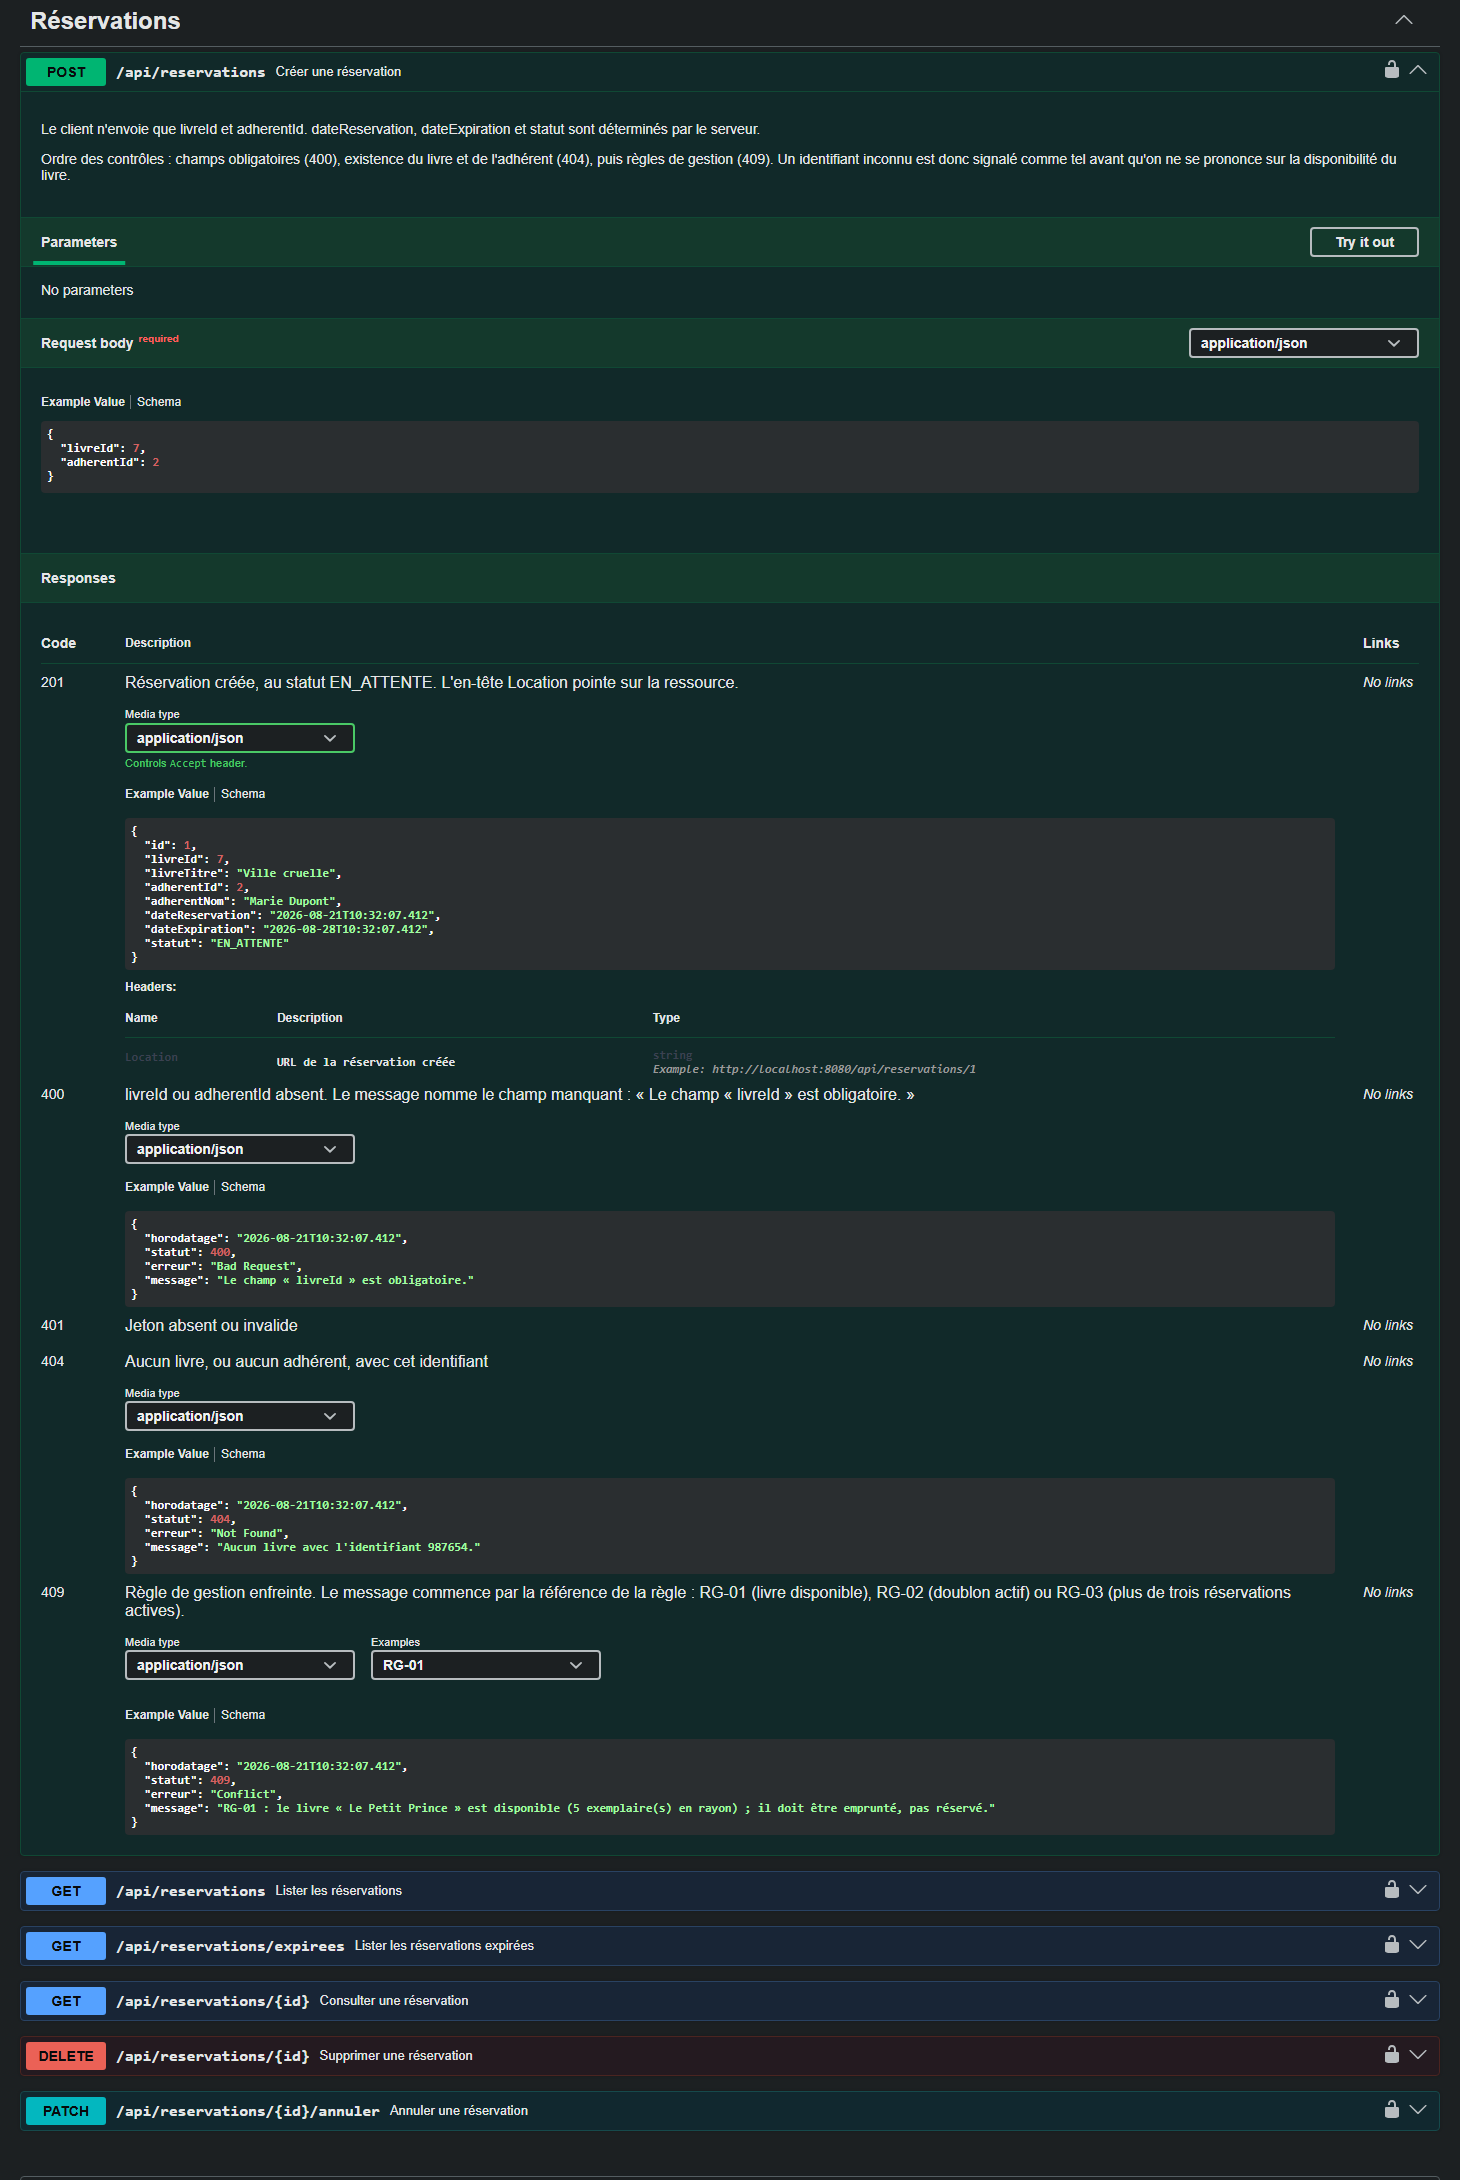
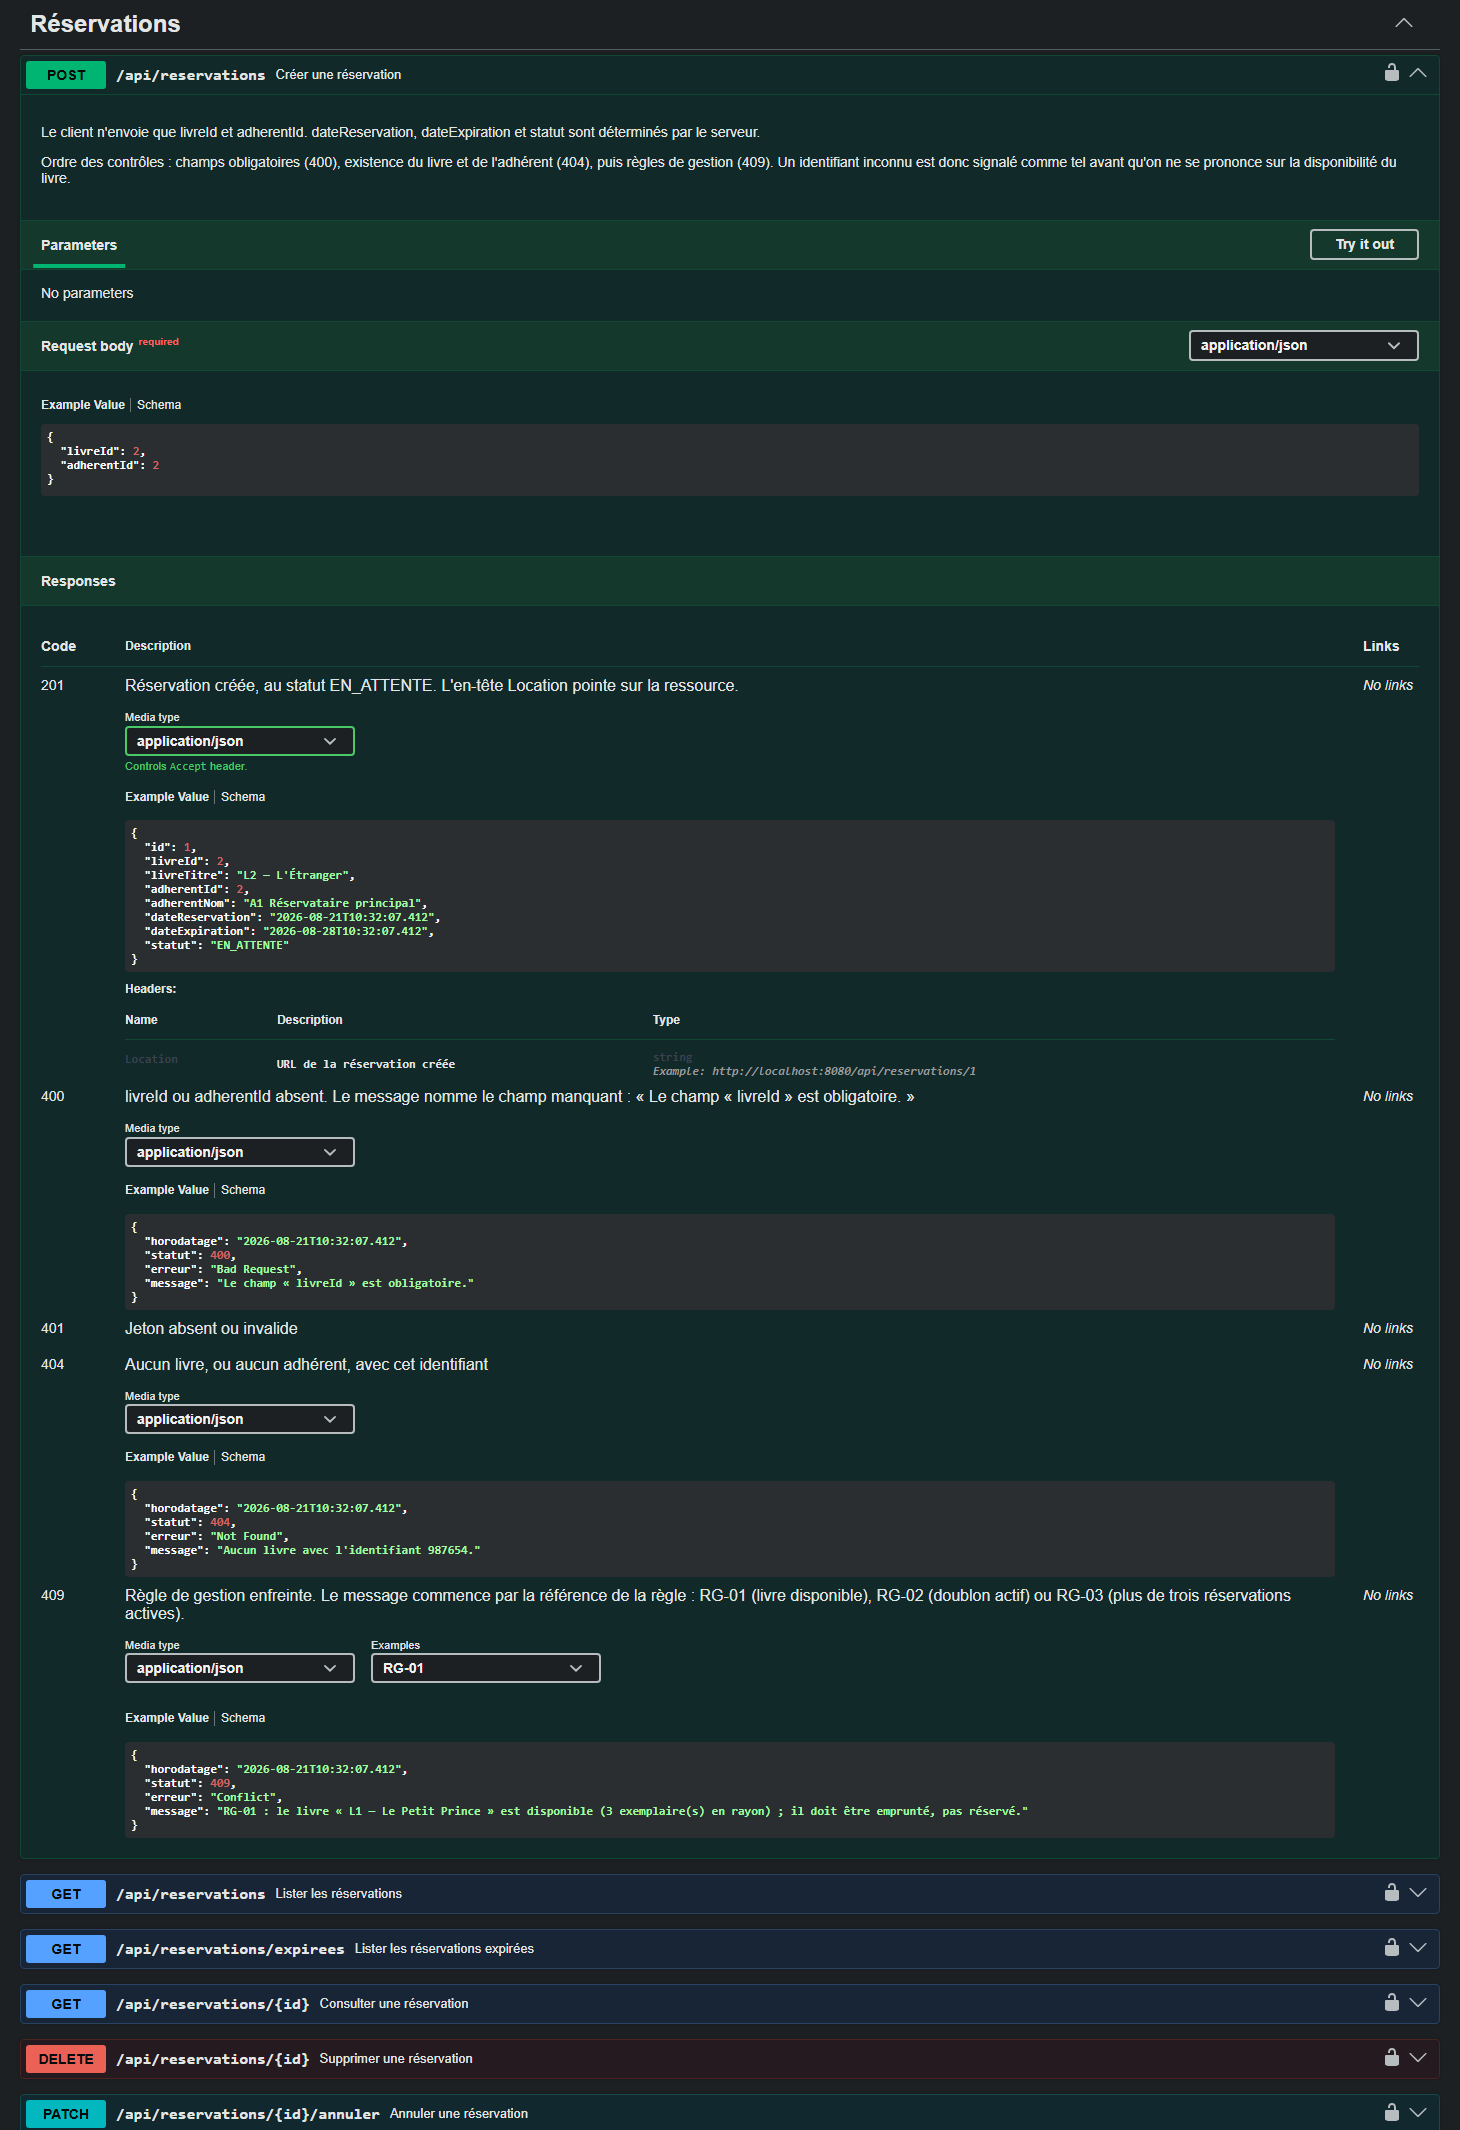
docs: retire les mentions bonus et aligne la doc sur le jeu de test
Description de la PR et SEANCE-2-RESERVATION.md : la section Bonus et
les lignes correspondantes des tableaux sont retirees. Le code garde
l'endpoint /expirees, le planificateur d'expiration et les tests
unitaires ; seule la mise en avant disparait.

openapi.yaml : la page d'accueil listait marie, un compte que le jeu de
donnees de test ne cree plus. Elle decrit desormais les comptes reels
(admin, a1, a2, a3) et les livres L1 a L5 avec leur etat.

Les exemples de la specification suivent : le corps pre-rempli de POST
/api/reservations vise maintenant un livre reellement indisponible
(livreId 2), ce qui rend le bouton Try it out directement utilisable, et
les messages d exemple citent les libelles du jeu de test.

Captures Swagger refaites en consequence.

diff --git a/SEANCE-2-RESERVATION.md b/SEANCE-2-RESERVATION.md
@@ -14,7 +14,7 @@ touchée, et `pom.xml` reste intact — la contrainte de la séance 1 tient touj
 
 ## Capture Swagger
 
-Les cinq endpoints demandés, plus celui du bonus, sous le tag **Réservations** :
+Les cinq endpoints, sous le tag **Réservations** :
 
 ![Les endpoints du module Réservation dans Swagger UI](screenshots/swagger-reservations.png)
 
@@ -41,7 +41,6 @@ Emprunts.
 | GET | `/api/reservations/{id}` | Consulter | 200 | 404 |
 | PATCH | `/api/reservations/{id}/annuler` | Annuler | 200 | 404, 409 |
 | DELETE | `/api/reservations/{id}` | Supprimer | 204 | 404 |
-| GET | `/api/reservations/expirees` | **Bonus** — lister les réservations expirées | 200 | — |
 
 Le client n'envoie que `livreId` et `adherentId`. `dateReservation`,
 `dateExpiration` et `statut` sont déterminés par le serveur.
@@ -76,7 +75,7 @@ Chaque message d'erreur 409 commence par la référence de la règle enfreinte :
   "horodatage": "2026-08-21T09:48:13.695",
   "statut": 409,
   "erreur": "Conflict",
-  "message": "RG-03 : Marie Dupont a déjà 3 réservations actives ; le maximum est de 3."
+  "message": "RG-03 : A2 Quota à saturer a déjà 3 réservations actives ; le maximum est de 3."
 }
 ```
 
@@ -95,15 +94,13 @@ Le découpage du projet existant est repris tel quel : `entity`, `dao`,
 | `dto/ReservationRequestDTO.java` | Deux champs : `livreId`, `adherentId`. |
 | `dto/ReservationResponseDTO.java` | La vue de sortie, relations aplaties en identifiant + libellé. |
 | `service/ReservationService.java` | Validation, chargement, les six règles, conversion en DTO. |
-| `controller/ReservationController.java` | Les six routes. Aucune décision métier. |
+| `controller/ReservationController.java` | Les routes du module. Aucune décision métier. |
 | `exceptions/BadRequestException.java` | 400. |
 | `exceptions/ConflictException.java` | 409, règle de gestion enfreinte. |
 | `exceptions/ApiError.java` | Le corps JSON des erreurs. |
 | `exceptions/ReservationExceptionHandler.java` | La traduction exception → réponse HTTP. |
-| `configuration/ReservationExpirationScheduler.java` | **Bonus** — bascule horaire des réservations échues en EXPIREE. |
 | `configuration/CorsConfiguration.java` | *(modifié)* ajout de PATCH. |
-| `docker/openapi.yaml` | *(modifié)* les six opérations, leurs codes de retour et leurs exemples d'erreur. |
-| `src/test/.../ReservationServiceTest.java` | **Bonus** — 10 tests unitaires sur les six règles. |
+| `docker/openapi.yaml` | *(modifié)* les opérations du module, leurs codes de retour et leurs exemples d'erreur. |
 
 **L'entité ne sort jamais du service.** Le contrôleur ne connaît que les deux
 DTO. C'est aussi ce qui évite de rejouer le défaut relevé en séance 1 sur
@@ -134,23 +131,6 @@ et l'annulation restait injoignable depuis un navigateur — Angular sur `:4200`
 comme Swagger UI sur `:8081` — alors qu'elle répondait parfaitement en `curl`.
 Une ligne ajoutée, et le prévol renvoie bien `Access-Control-Allow-Methods: ...
 PATCH`.
-
----
-
-## Bonus
-
-Les trois pistes de l'énoncé sont traitées.
-
-- **Tests unitaires.** `ReservationServiceTest` couvre les six règles, dont deux
-  cas pour RG-03 : la quatrième réservation refusée, et la troisième encore
-  acceptée. Dépôts simulés avec Mockito, aucun contexte Spring, aucune base.
-  `mvn test -Dtest=ReservationServiceTest` → **10 tests, 0 échec**.
-- **Endpoint des réservations expirées.** `GET /api/reservations/expirees`.
-- **Expiration automatique.** `ReservationExpirationScheduler` balaie chaque
-  heure les réservations actives dont la date est dépassée et les bascule en
-  EXPIREE. Le statut est écrit en base, et non déduit à l'affichage : une
-  réservation périmée qui resterait EN_ATTENTE continuerait de peser dans RG-02
-  et RG-03, et bloquerait l'adhérent pour rien.
 
 ---
 
